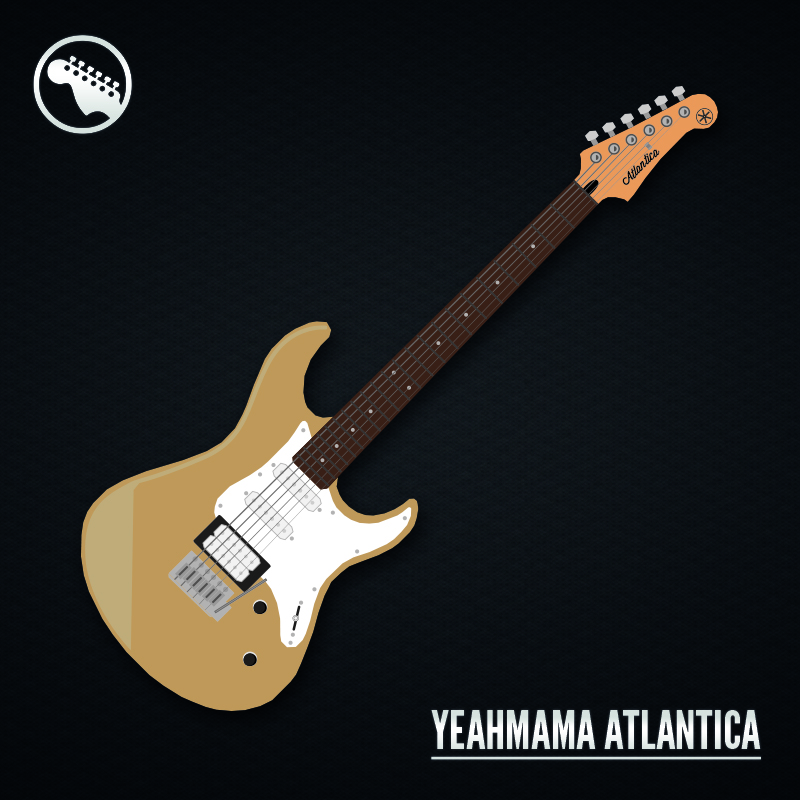
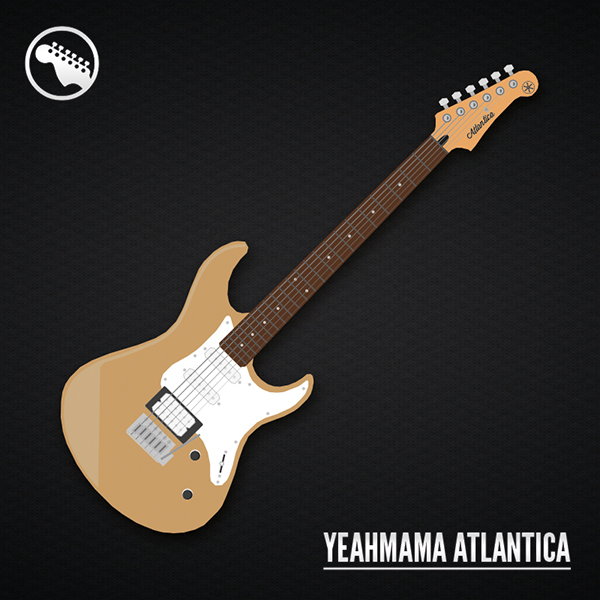
Fancybox
Ajout du media helper
Réduction des image d'instrument et conversion RGB

diff --git a/index.html b/index.html
@@ -22,6 +22,7 @@
 	<!-- Add fancyBox -->
 	<link rel="stylesheet" href="fancybox/source/jquery.fancybox.css?v=2.1.5" type="text/css" media="screen" />
 	<script type="text/javascript" src="fancybox/source/jquery.fancybox.pack.js?v=2.1.5"></script>
+	<script type="text/javascript" src="fancybox/source/helpers/jquery.fancybox-media.js"></script>
 	
 	<script type="text/javascript" src="fancybox/lib/jquery.mousewheel-3.0.6.pack.js"></script>
 	

diff --git a/css/main.css b/css/main.css
@@ -207,7 +207,7 @@ h5, h6       { font-weight: bolder }
         background-position: -155px 0;
     }
 	
-	.rights{
+	/*.rights{
 	-webkit-transition: all 0.7s ease;
 	transition: all 0.7s ease;
 	}
@@ -215,7 +215,7 @@ h5, h6       { font-weight: bolder }
 	header .rights:hover{
 		-webkit-transform: translate(-500px,0);
 		transform: translate(-500px,0);
-	}
+	}*/
 
     header .rights p{
         color: #454545;
